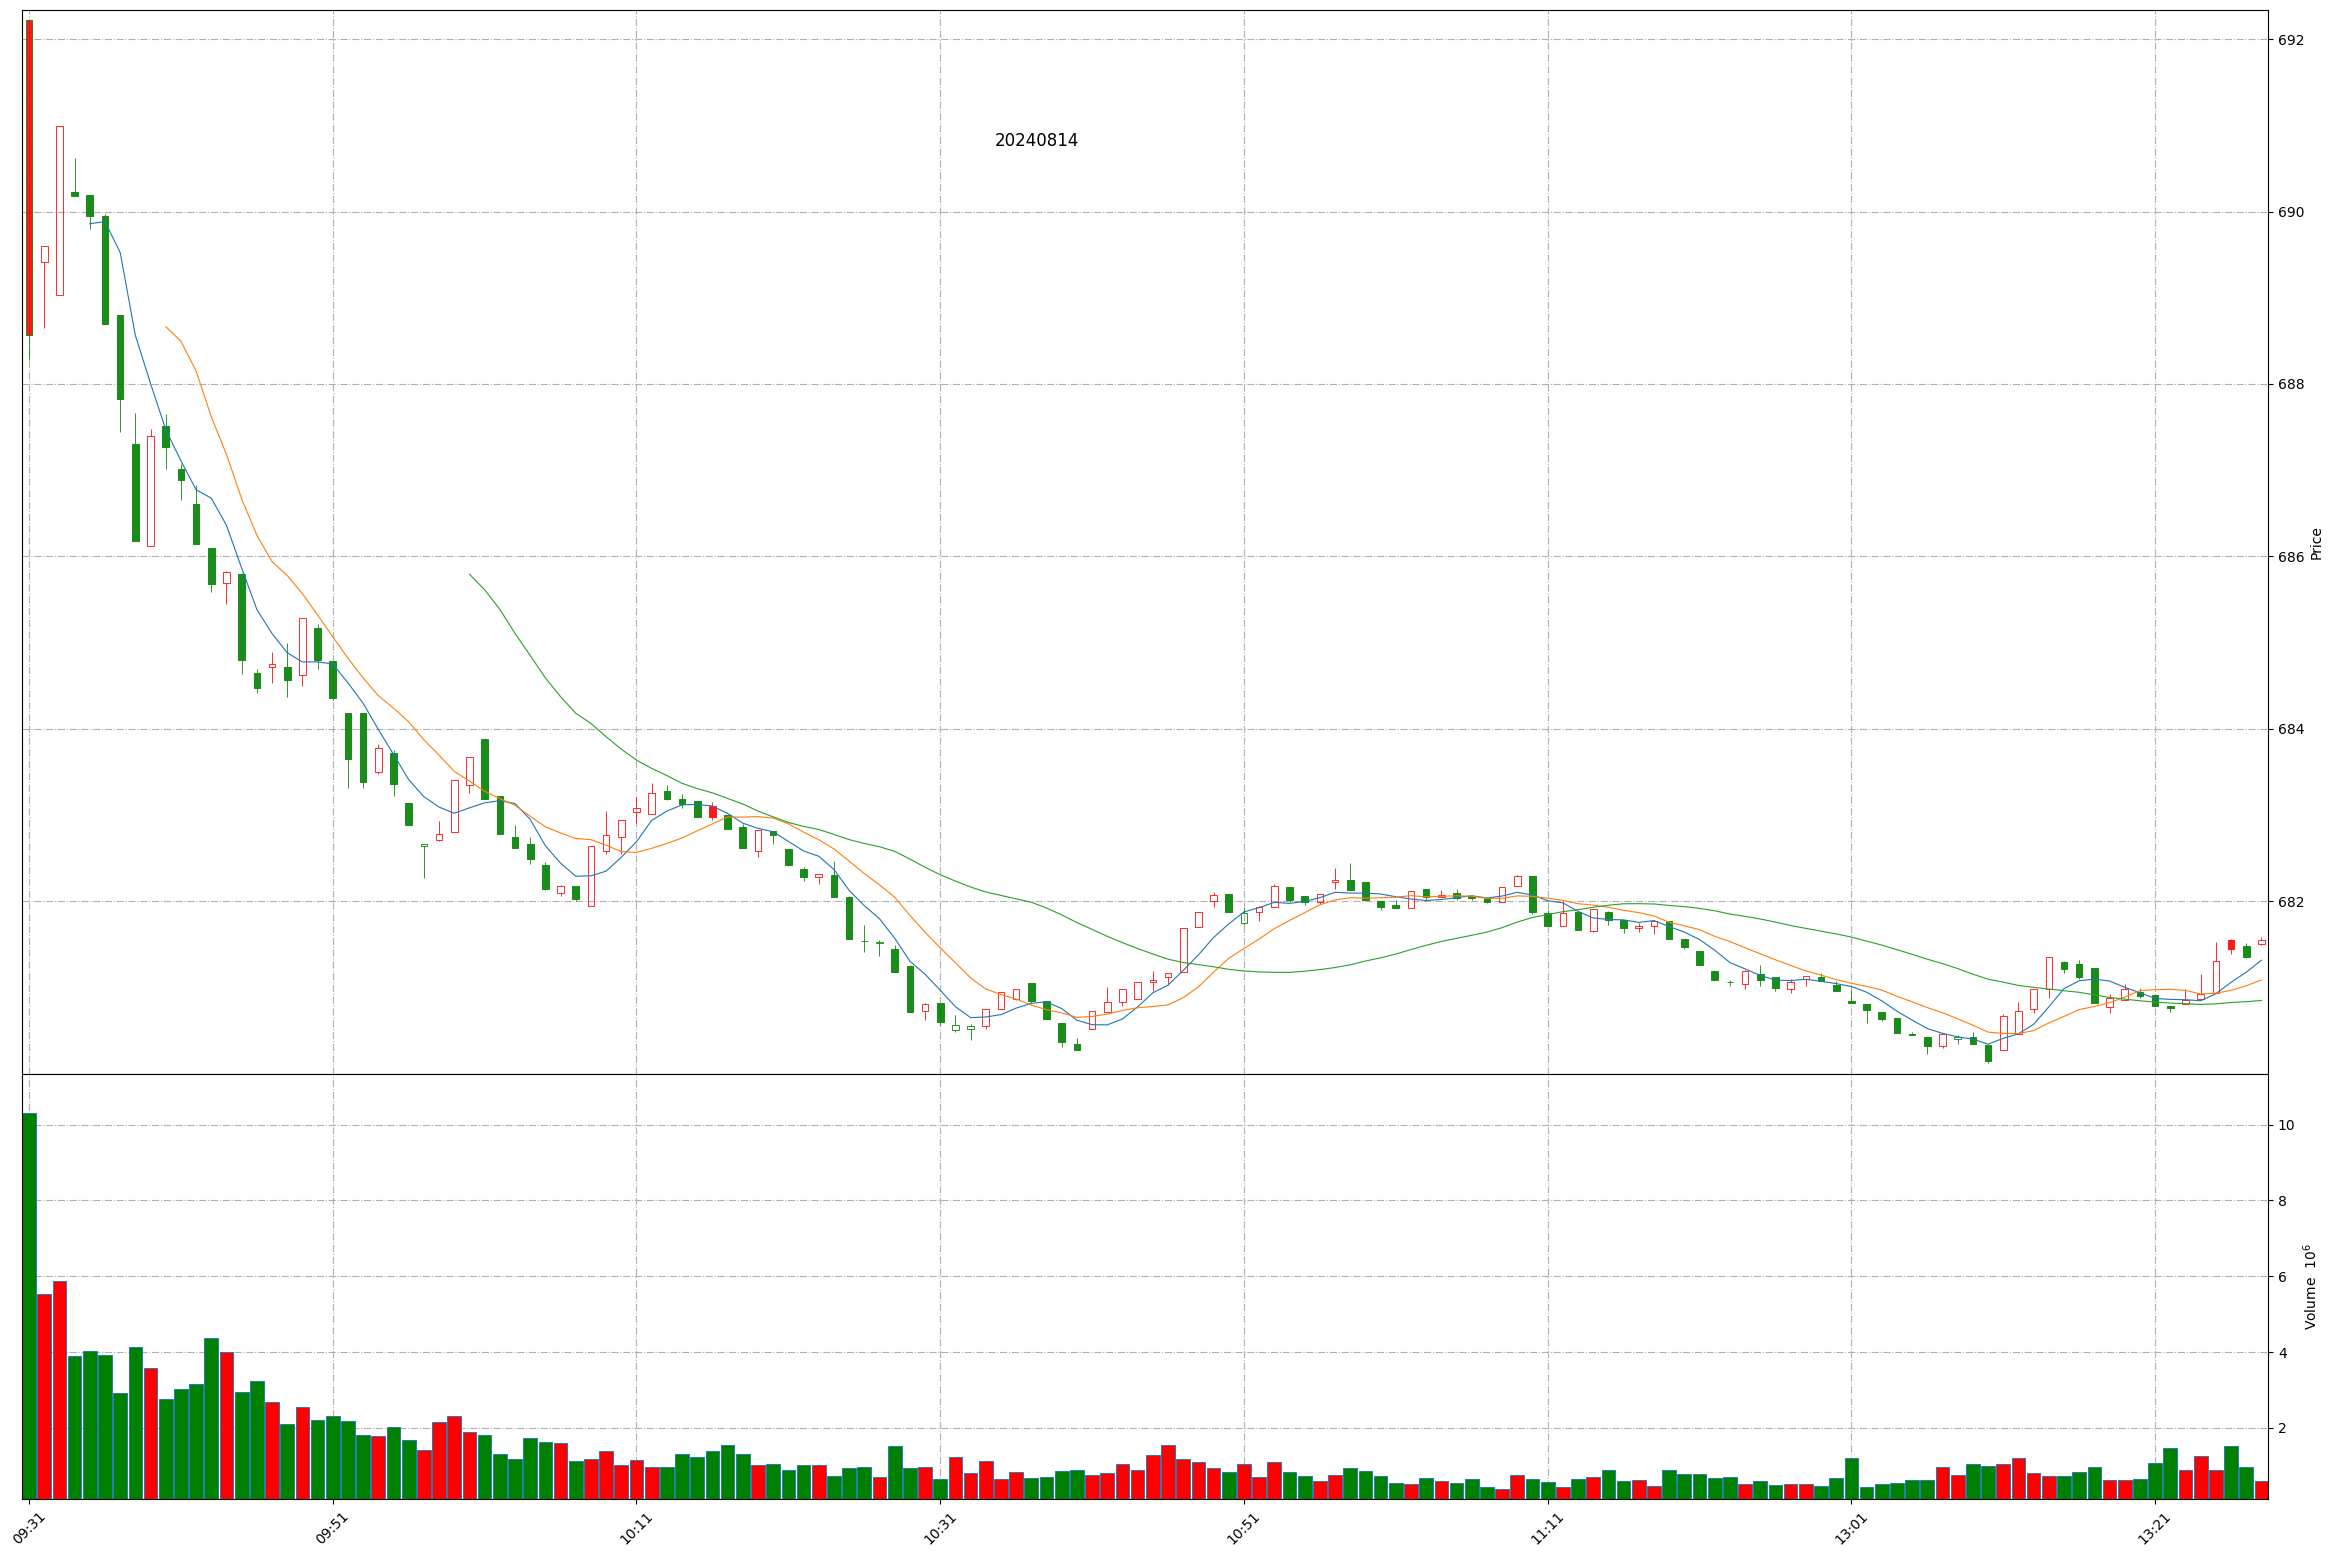
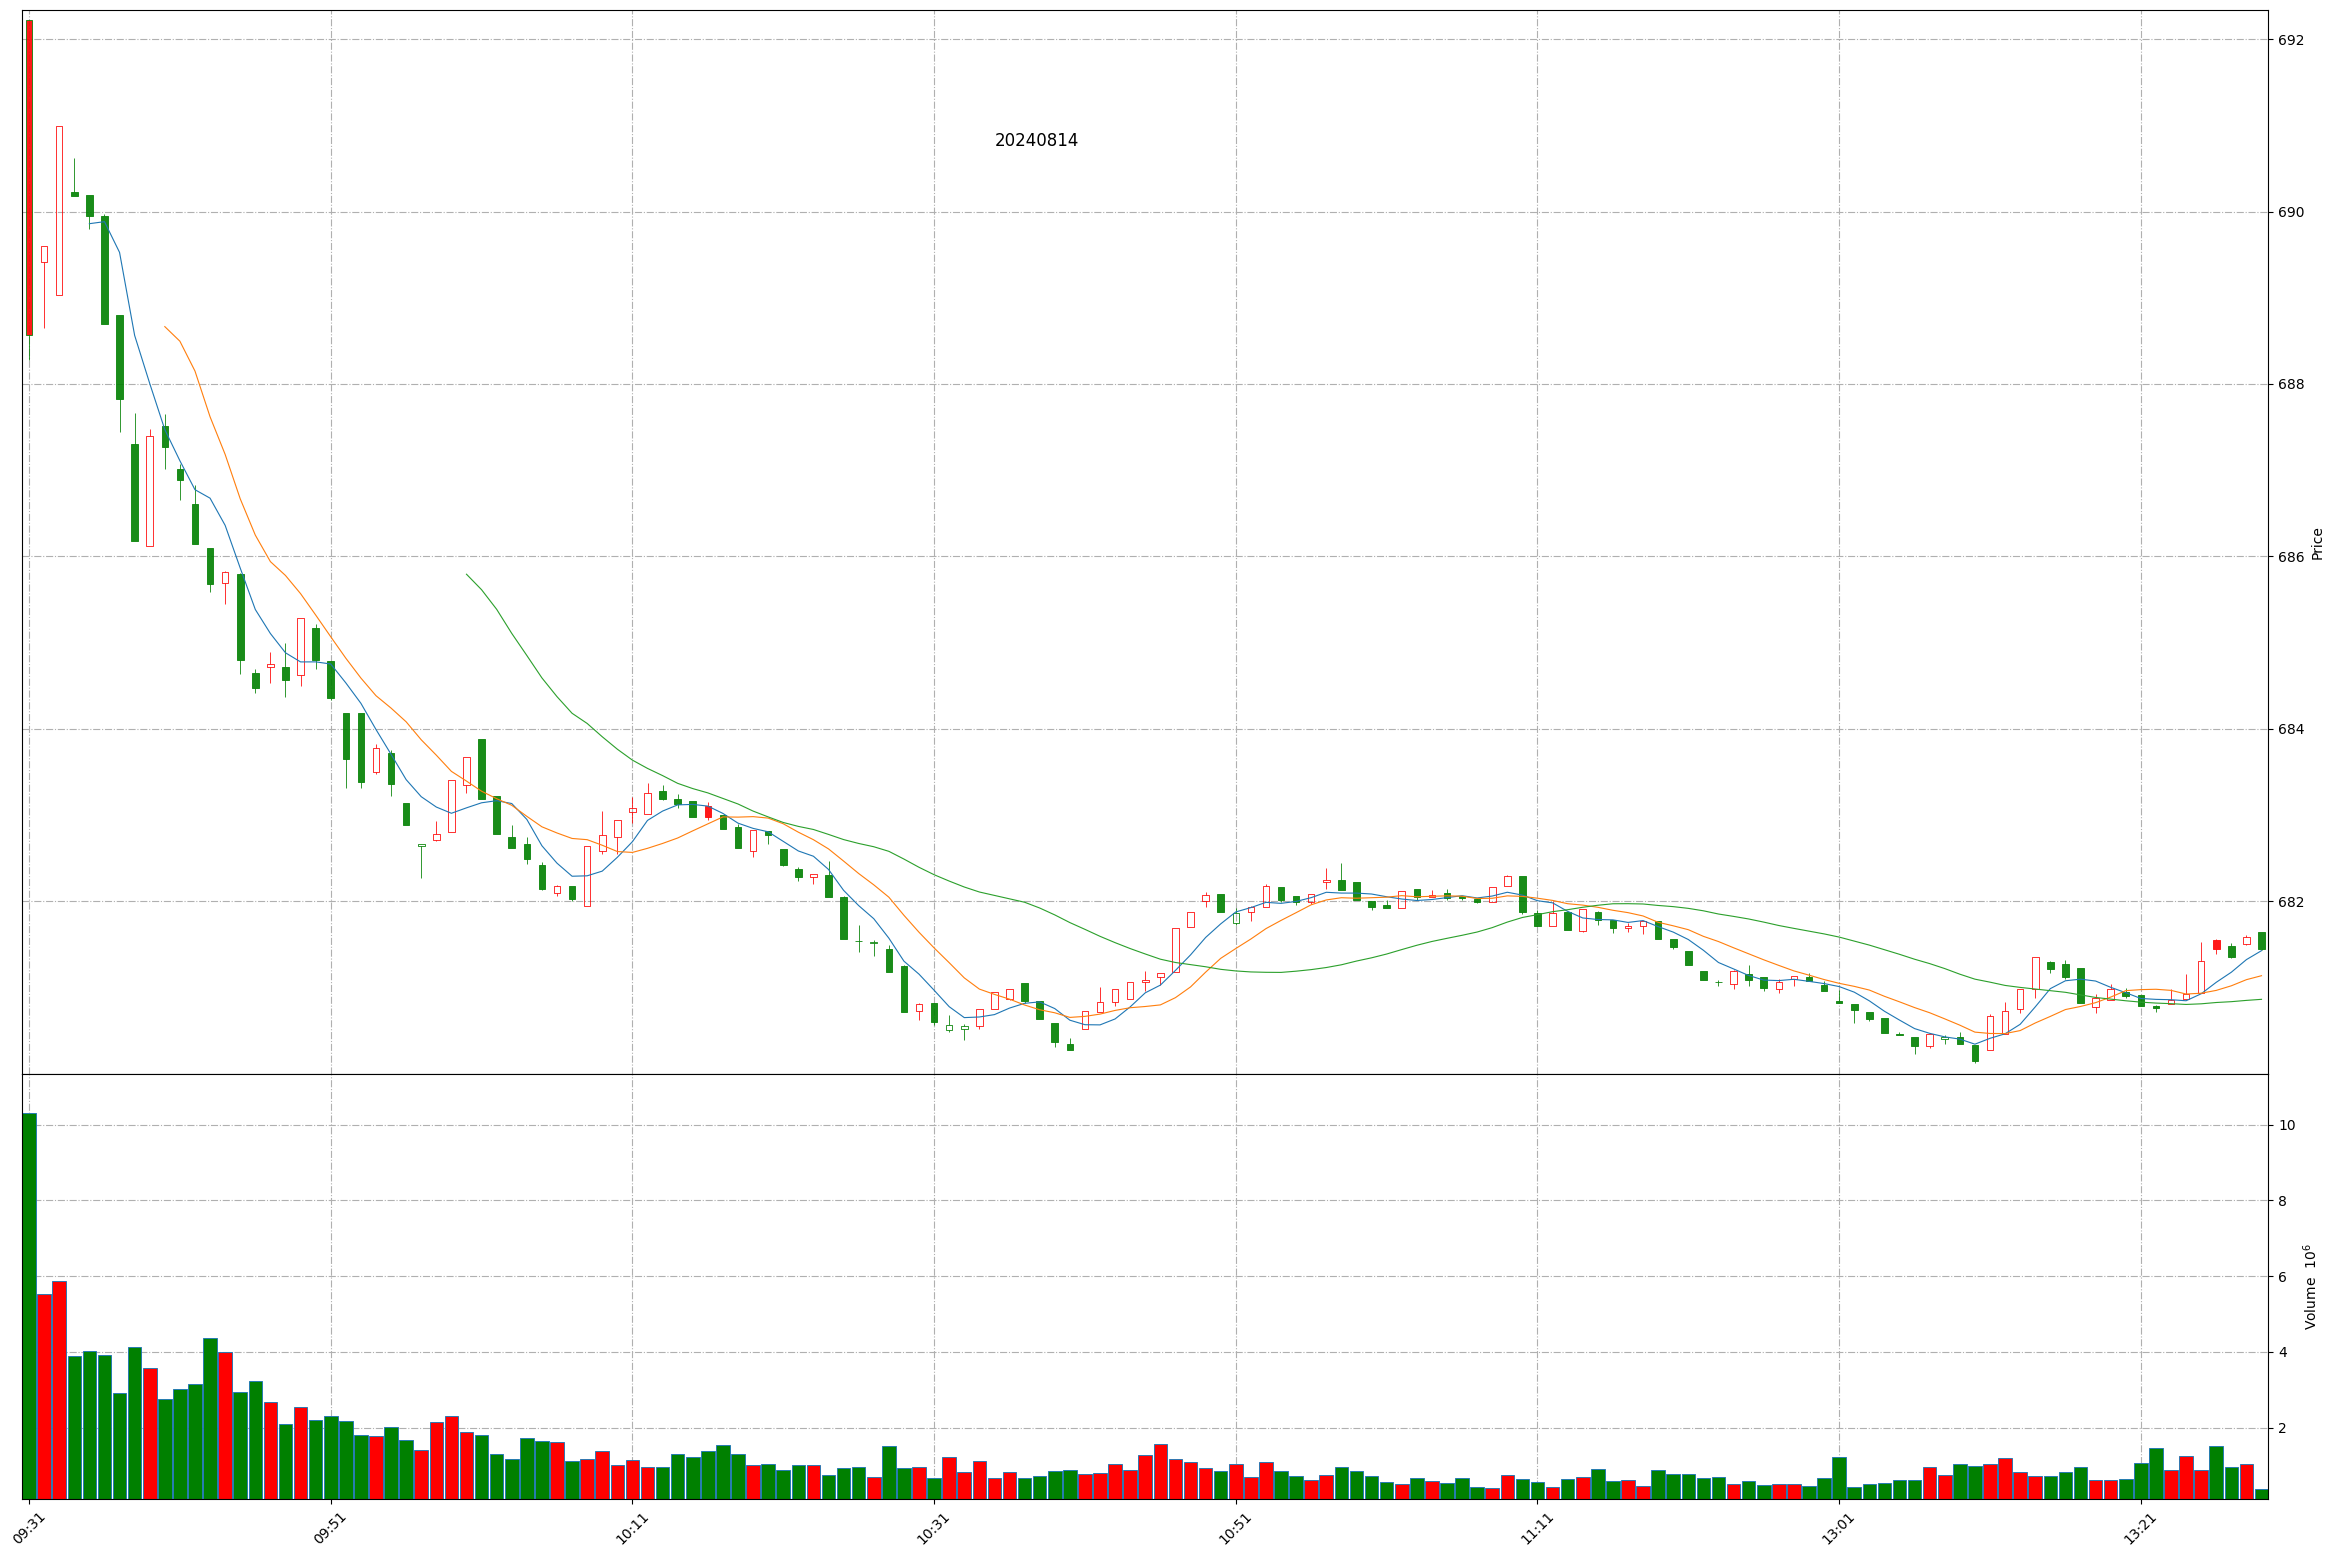
Github action update at 2024-08-14 13:28:39.

diff --git a/README.md b/README.md
@@ -1,11 +1,11 @@
 
 # Daily-A-share-market-quotes 每日 A 股指数（5min 更新）- 20240814
 
-### 上证指数 20240814 13:27
+### 上证指数 20240814 13:28
 ![](./fig/2024/8/20240814-sh000001.png)
 
-### 深证成指 20240814 13:27
+### 深证成指 20240814 13:28
 ![](./fig/2024/8/20240814-sz399001.png)
 
-### 北证50 20240814 13:27
+### 北证50 20240814 13:28
 ![](./fig/2024/8/20240814-bj899050.png)
